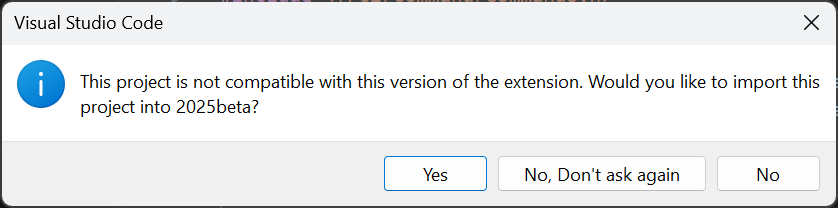
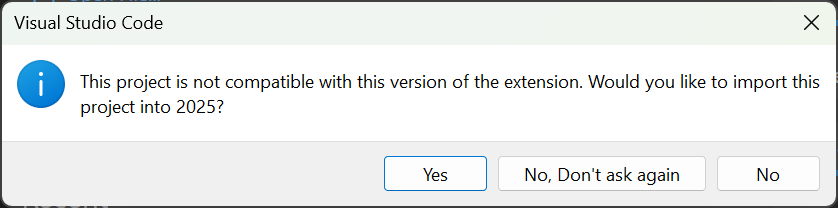
update importing

diff --git a/source/docs/software/vscode-overview/importing-last-years-robot-code.rst b/source/docs/software/vscode-overview/importing-last-years-robot-code.rst
@@ -6,7 +6,7 @@ Due to changes in the project, it is necessary to update the build files for a p
 
 To make it easy for teams to import previous years gradle projects into the current year's framework, WPILib includes a wizard for importing previous years projects into VS Code. This will generate the necessary gradle components and load the project into VS Code. In place upgrades are not supported.
 
-.. important:: The import process copies your project source files from the current directory to a new directory and completely regenerates the gradle files. Additionally, it updates the code for the package changes made in 2024. If you made non-standard updates to the ``build.gradle``, you will need to make those changes again. For this reason, in place upgrades are not supported. It is also necessary to import vendor libraries again, since last year's vendor libraries must be updated to be compatible with this year's projects.
+.. important:: The import process copies your project source files from the current directory to a new directory and completely regenerates the gradle files. Additionally, it updates the code for the package changes made in 2025. If you made non-standard updates to the ``build.gradle``, you will need to make those changes again. For this reason, in place upgrades are not supported. It is also necessary to import vendor libraries again, since last year's vendor libraries must be updated to be compatible with this year's projects.
 
 ### Launching the Import Wizard
 
